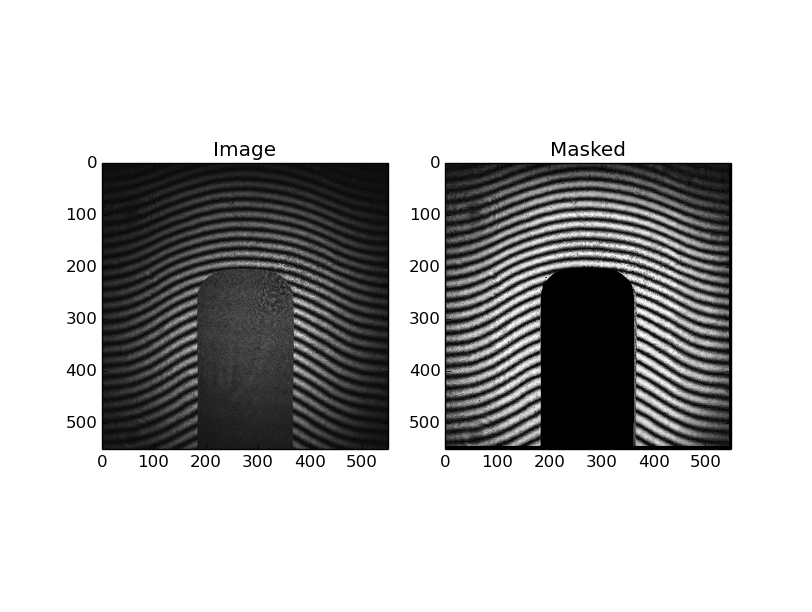
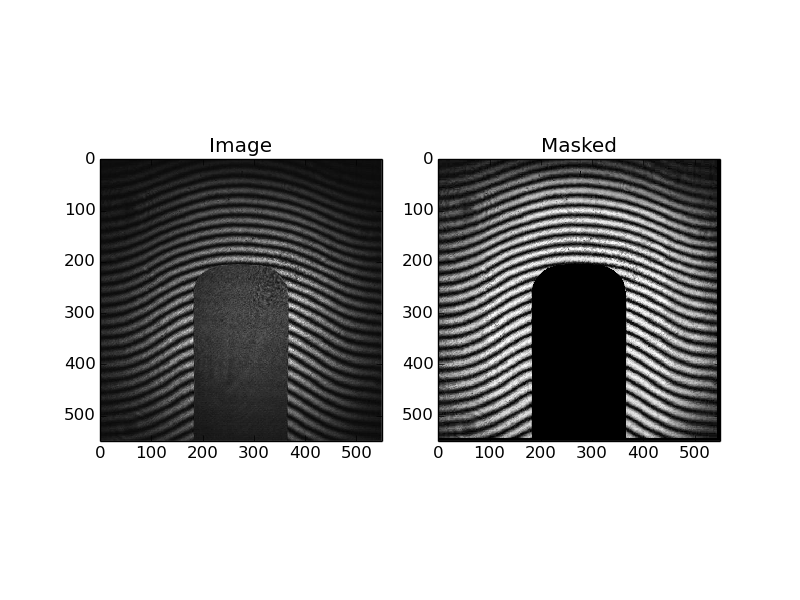
improved method for masking glow plug

diff --git a/mask/demoGlowPlugMask.py b/mask/demoGlowPlugMask.py
@@ -2,29 +2,36 @@ import numpy as np
 from matplotlib import pyplot as plt
 from fringeAnalysis.WTP.constants import *
 from fringeAnalysis import WTP
-from fringeAnalysis.mask import remove_glowplug
-
+from fringeAnalysis.mask import get_autolite_template, locate_glowplug, remove_glowplug
 from skimage import io, exposure
 import sys,os,os.path
+
+measuredWidth = 182
+templateSlop = 4
 
 orig = io.imread('phi=0.9_frame0_crop.jpg', as_grey=True)
 img = exposure.equalize_adapthist(orig)
 img = exposure.rescale_intensity(img, out_range=(0,255))
 
-template = io.imread('autolite_mask180x300.jpg', as_grey=True)
+img_h, img_w = img.shape
+approxTemplate = get_autolite_template(measuredWidth, img_h/2)
 
-masked = remove_glowplug(img, img, template, debug = False, outputPlot=False)
+templateX, templateY, templateWidth  = locate_glowplug(img, approxTemplate, debug=False)
+
+template = get_autolite_template(templateWidth+templateSlop, img_h/2)
+masked = remove_glowplug(img, templateX-templateSlop/2, templateY, template)
 
 plt.figure()
 plt.gray()
 
 plt.subplot(121)
-plt.imshow(orig)
+plt.imshow(orig, interpolation='none')
 plt.title("Image")
 
 plt.subplot(122)
-plt.imshow(masked)
+plt.imshow(masked, interpolation='none')
 plt.title("Masked")
 
-plt.show()
 plt.savefig('glowplugResult.png')
+plt.show()
+
